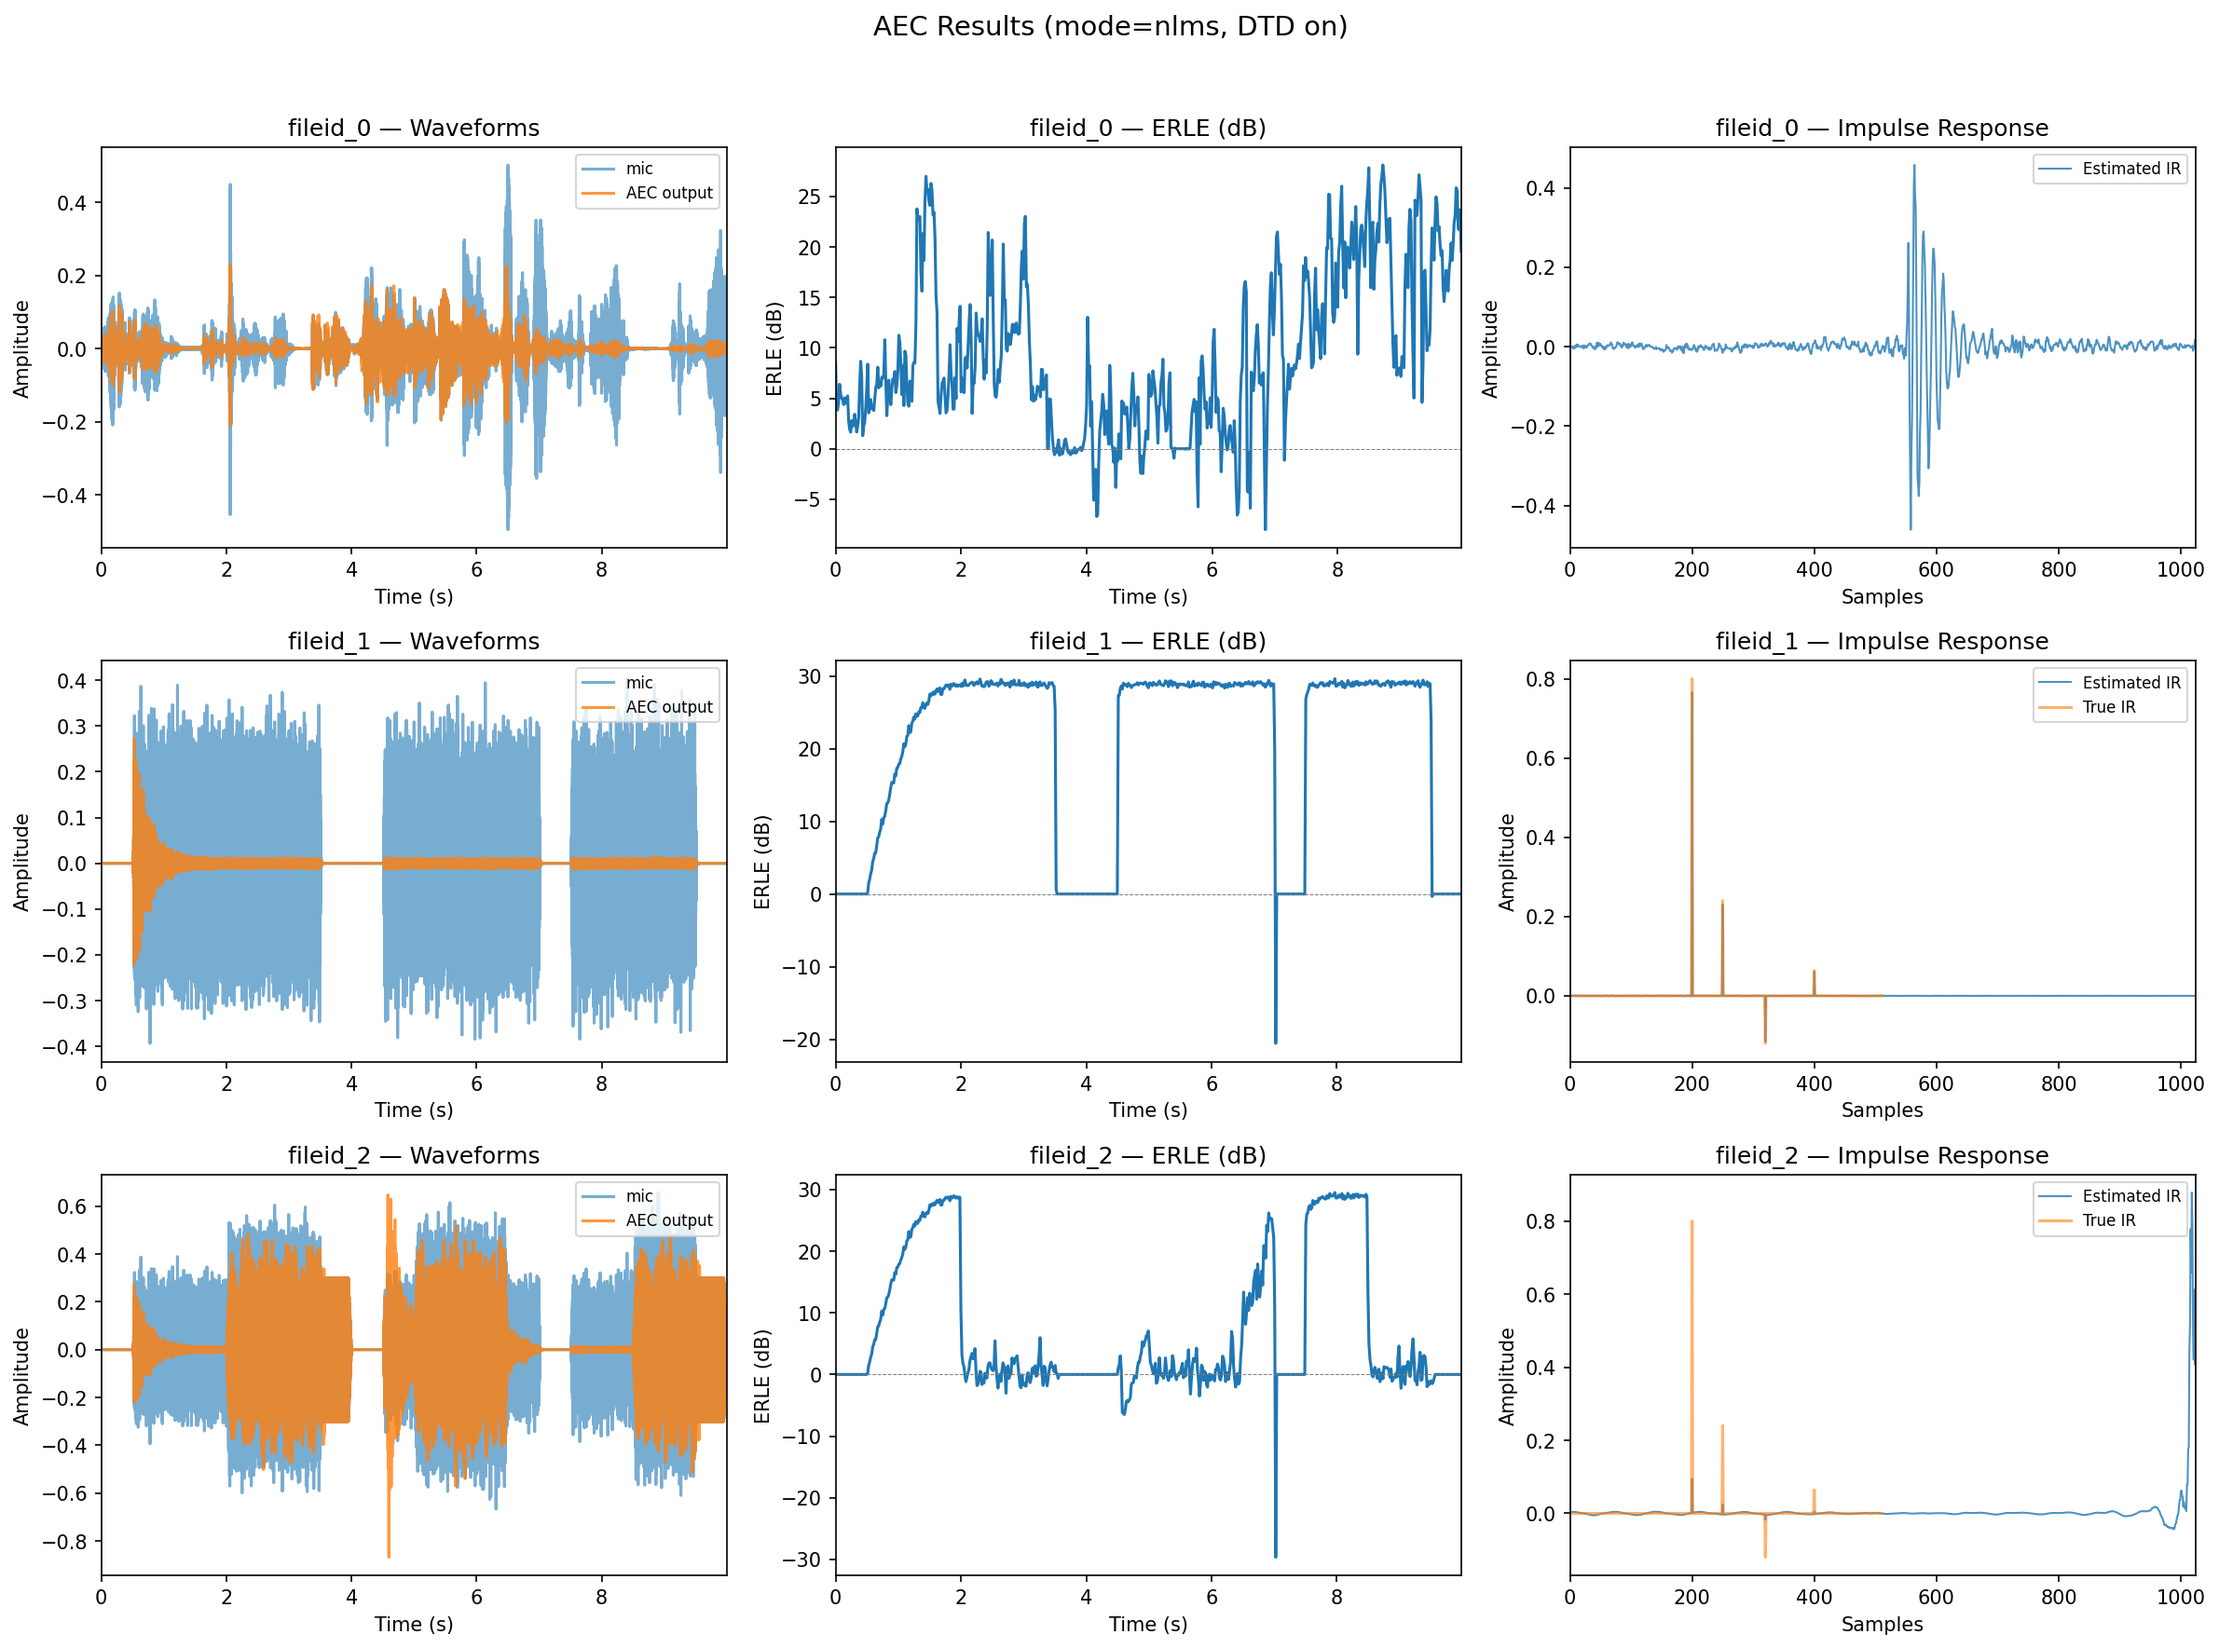
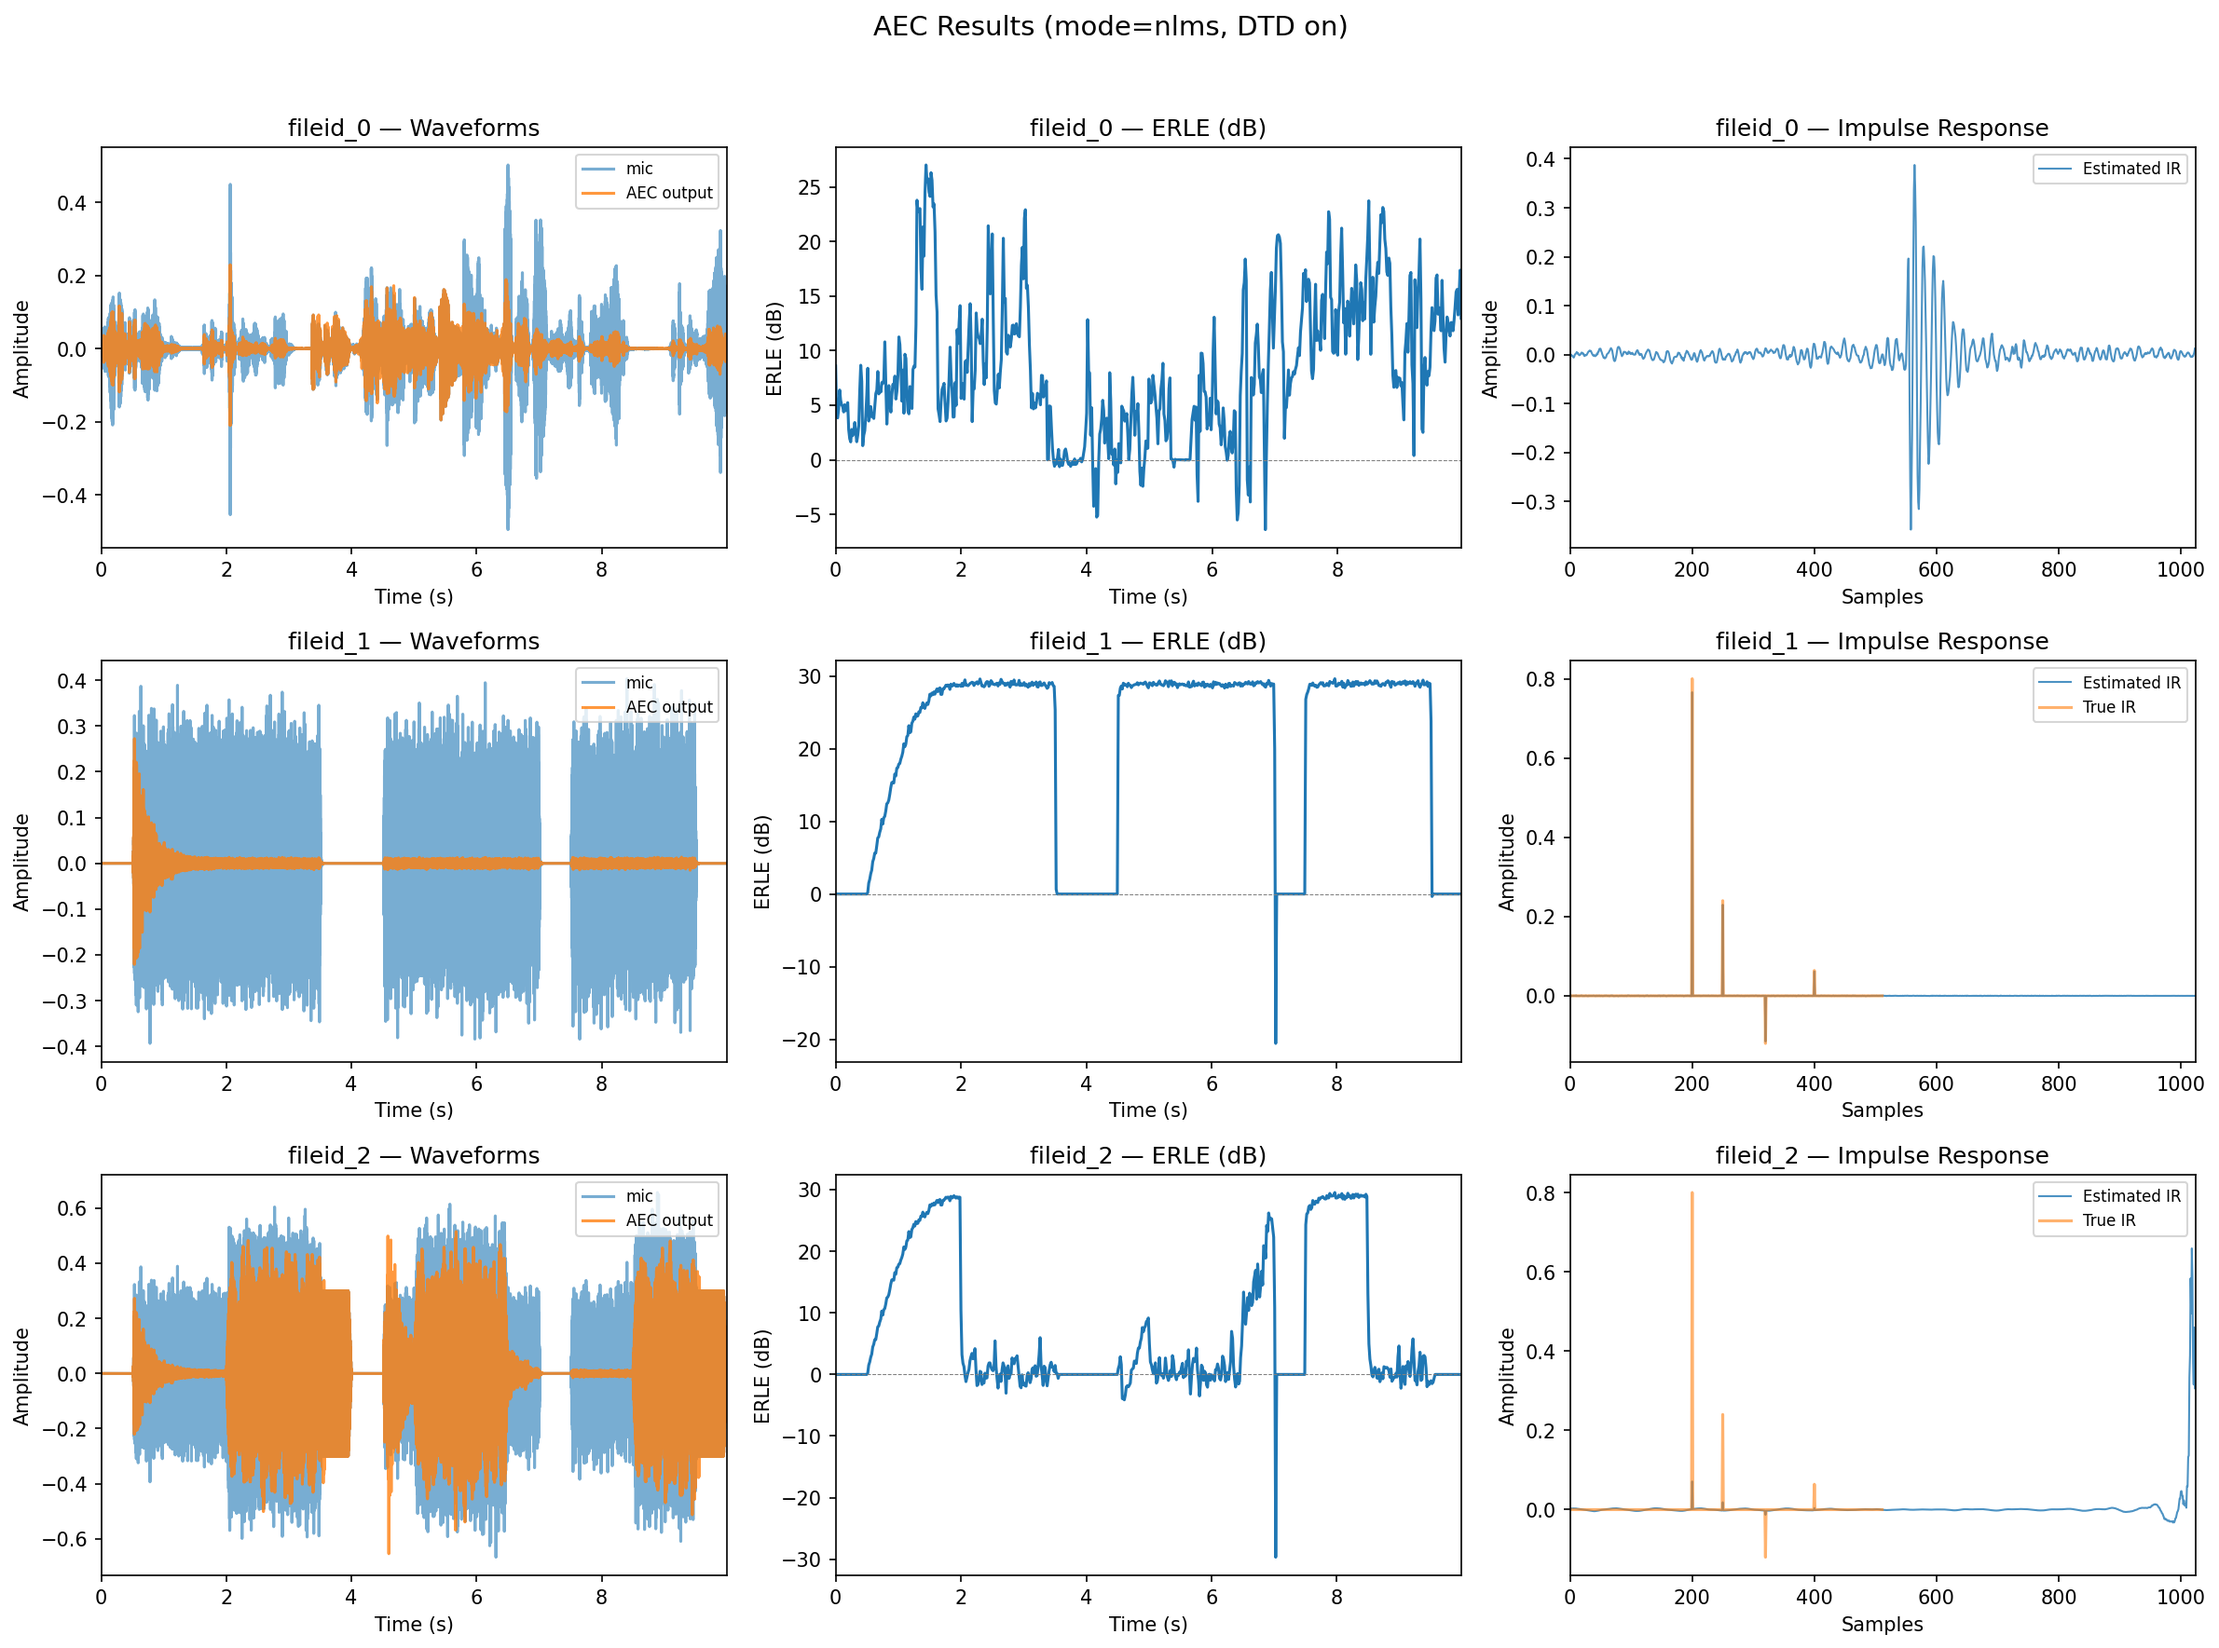
fix: Reduce NLMS max_w_norm to 1.5 to prevent double-talk amplification

diff --git a/python/aec.py b/python/aec.py
@@ -77,7 +77,7 @@ class NlmsFilter:
         self.ref_buffer = np.zeros(filter_length, dtype=np.float32)
         self.power_sum = 0.0
         self.clear_history = False
-        self.max_w_norm = 2.0  # Weight norm constraint (prevents explosion during double-talk)
+        self.max_w_norm = 1.5  # Weight norm constraint (prevents explosion during double-talk)
 
     def reset(self):
         self.weights.fill(0)
